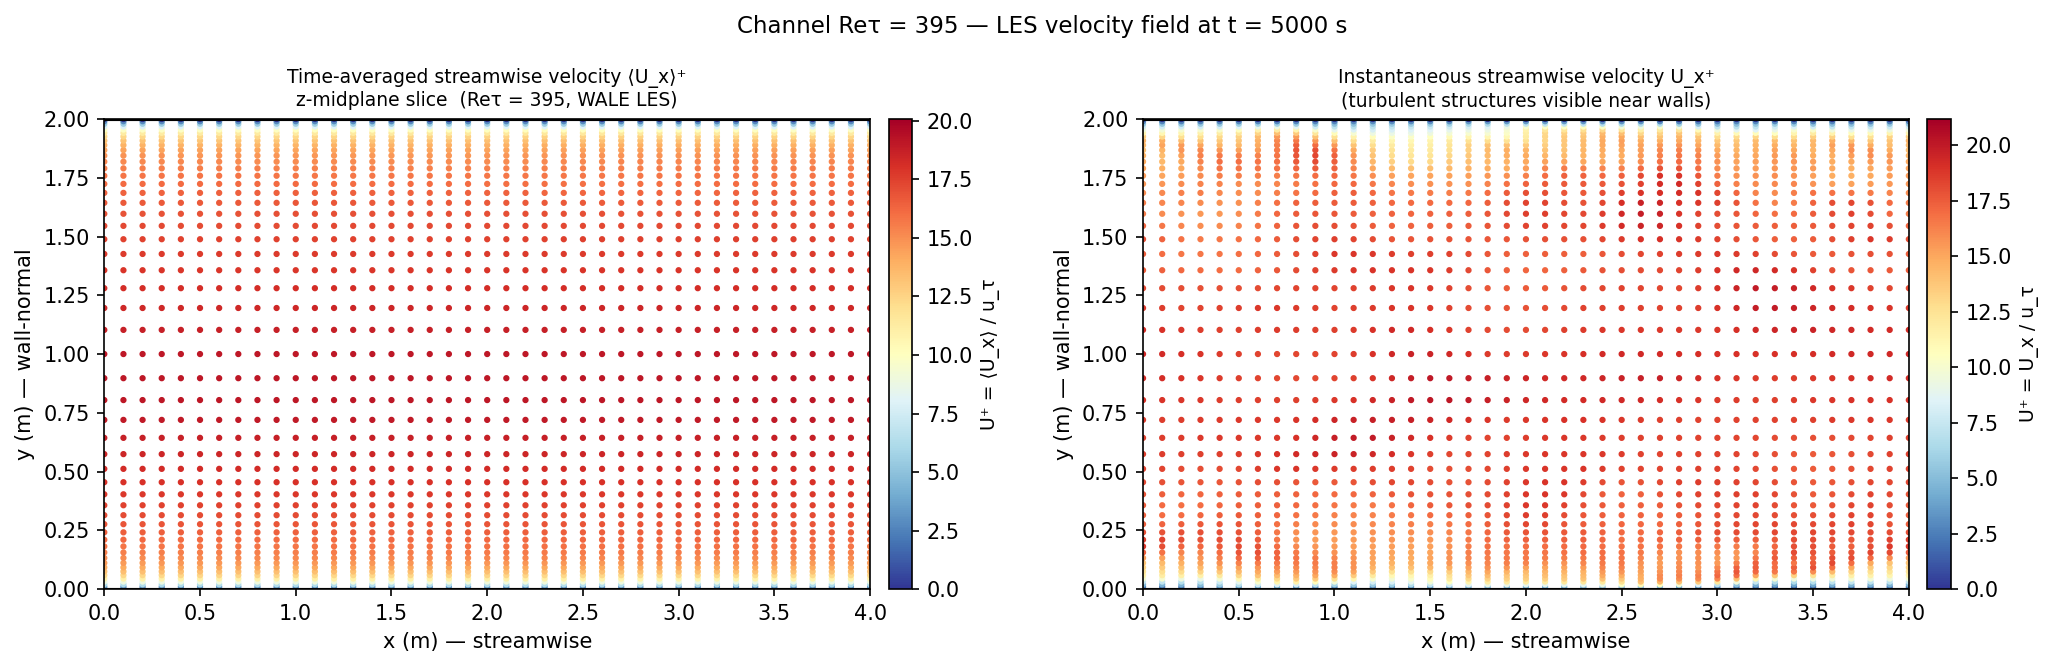
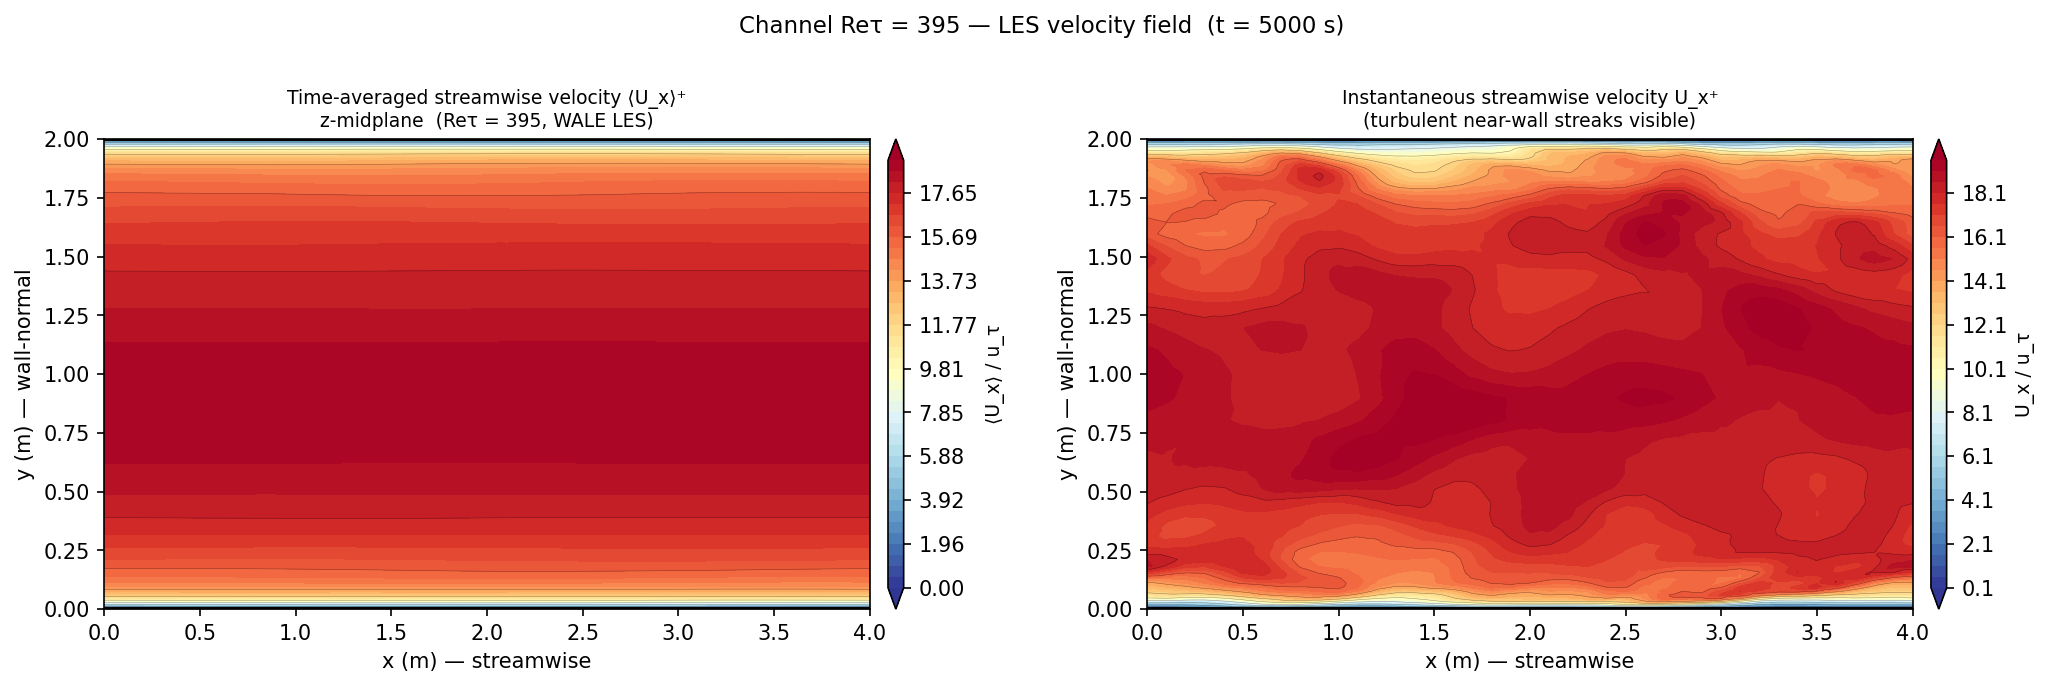
Interpolate velocity contours onto regular grid for smooth plots
Replace scatter points with scipy.griddata interpolation onto a 400×200
cosine-clustered grid (dense near walls), then render with contourf + light
contour lines — gives smooth filled contours that resolve the boundary layer.

diff --git a/postprocess.py b/postprocess.py
@@ -181,6 +181,8 @@ if VTK_FILE.exists():
         reader.Update()
         grid = reader.GetOutput()
 
+        from scipy.interpolate import griddata
+
         pts = vtk_np.vtk_to_numpy(grid.GetPoints().GetData())
         pd  = grid.GetPointData()
 
@@ -188,58 +190,76 @@ if VTK_FILE.exists():
             a = pd.GetArray(name)
             return vtk_np.vtk_to_numpy(a) if a else None
 
-        UMean = get_arr("UMean")          # (N,3) time-averaged velocity
-        U_inst = get_arr("U")             # (N,3) instantaneous velocity
+        UMean  = get_arr("UMean")   # (N,3) time-averaged velocity
+        U_inst = get_arr("U")       # (N,3) instantaneous velocity
 
         # Extract z-midplane slice (z closest to domain centre z=1.0)
         z_unique = np.unique(pts[:, 2])
         z_mid    = z_unique[np.argmin(np.abs(z_unique - 1.0))]
         mask_z   = np.abs(pts[:, 2] - z_mid) < 1e-4
 
-        x_sl  = pts[mask_z, 0]
-        y_sl  = pts[mask_z, 1]
-        Um_sl = UMean[mask_z, 0]   # streamwise component of time-averaged U
+        x_sl = pts[mask_z, 0]
+        y_sl = pts[mask_z, 1]
 
-        # Wall units for y-axis label
-        yp_sl = y_sl * u_tau / nu
-        Up_sl = Um_sl / u_tau
+        # Regular interpolation grid — dense enough for smooth contours
+        # Use finer y-resolution near walls to capture the boundary layer
+        nx_g, ny_g = 400, 200
+        xi = np.linspace(0, 4, nx_g)
+        # Cluster grid points toward both walls with a sine mapping
+        t_g = np.linspace(0, np.pi, ny_g)
+        yi  = 1.0 - np.cos(t_g)          # maps 0→π onto 0→2, dense at 0 and 2
 
-        fig, axes = plt.subplots(1, 2, figsize=(14, 4.5))
+        XI, YI = np.meshgrid(xi, yi)
+        xy_sl  = np.column_stack([x_sl, y_sl])
 
-        # ── Panel 1: mean streamwise velocity UMean_x ─────────────────────────
-        ax = axes[0]
-        sc = ax.scatter(x_sl, y_sl, c=Up_sl, cmap="RdYlBu_r", s=4,
-                        vmin=0, vmax=Up_sl.max() * 1.05, rasterized=True)
-        cb = fig.colorbar(sc, ax=ax, pad=0.02)
-        cb.set_label("U⁺ = ⟨U_x⟩ / u_τ", fontsize=9)
-        ax.axhline(0, color="k", lw=1.5)
-        ax.axhline(2, color="k", lw=1.5)
-        ax.set_xlabel("x (m) — streamwise", fontsize=10)
-        ax.set_ylabel("y (m) — wall-normal", fontsize=10)
-        ax.set_title("Time-averaged streamwise velocity ⟨U_x⟩⁺\n"
-                     f"z-midplane slice  (Reτ = {Re_tau:.0f}, WALE LES)", fontsize=9)
-        ax.set_xlim(0, 4); ax.set_ylim(0, 2)
+        def interp(values):
+            return griddata(xy_sl, values, (XI, YI), method="linear")
 
-        # ── Panel 2: instantaneous streamwise velocity ─────────────────────────
+        Um_grid = interp(UMean[mask_z, 0]) / u_tau   # ⟨U_x⟩⁺
+
+        def _contour_panel(ax, fig, Z, title, cbar_label, cmap="RdYlBu_r",
+                           vmin=None, vmax=None, nlevels=40):
+            vmin = vmin if vmin is not None else np.nanpercentile(Z, 1)
+            vmax = vmax if vmax is not None else np.nanpercentile(Z, 99)
+            levels = np.linspace(vmin, vmax, nlevels)
+            cf = ax.contourf(XI, YI, Z, levels=levels, cmap=cmap,
+                             extend="both")
+            ax.contour(XI, YI, Z, levels=levels[::4], colors="k",
+                       linewidths=0.25, alpha=0.4)
+            cb = fig.colorbar(cf, ax=ax, pad=0.02, aspect=30)
+            cb.set_label(cbar_label, fontsize=9)
+            # Wall lines
+            ax.axhline(0, color="k", lw=2)
+            ax.axhline(2, color="k", lw=2)
+            ax.fill_between([0, 4], -0.02, 0,   color="k", alpha=0.15)
+            ax.fill_between([0, 4],  2,    2.02, color="k", alpha=0.15)
+            ax.set_xlim(0, 4); ax.set_ylim(0, 2)
+            ax.set_xlabel("x (m) — streamwise", fontsize=10)
+            ax.set_ylabel("y (m) — wall-normal", fontsize=10)
+            ax.set_title(title, fontsize=9)
+
+        n_panels = 2 if U_inst is not None else 1
+        fig, axes = plt.subplots(1, n_panels, figsize=(7 * n_panels, 4.5))
+        if n_panels == 1:
+            axes = [axes]
+
+        _contour_panel(axes[0], fig, Um_grid,
+                       title="Time-averaged streamwise velocity ⟨U_x⟩⁺\n"
+                             f"z-midplane  (Reτ = {Re_tau:.0f}, WALE LES)",
+                       cbar_label="⟨U_x⟩ / u_τ",
+                       vmin=0, vmax=np.nanmax(Um_grid))
+
         if U_inst is not None:
-            Ui_sl  = U_inst[mask_z, 0] / u_tau
-            ax2 = axes[1]
-            sc2 = ax2.scatter(x_sl, y_sl, c=Ui_sl, cmap="RdYlBu_r", s=4,
-                              vmin=0, vmax=Ui_sl.max() * 1.05, rasterized=True)
-            cb2 = fig.colorbar(sc2, ax=ax2, pad=0.02)
-            cb2.set_label("U⁺ = U_x / u_τ", fontsize=9)
-            ax2.axhline(0, color="k", lw=1.5)
-            ax2.axhline(2, color="k", lw=1.5)
-            ax2.set_xlabel("x (m) — streamwise", fontsize=10)
-            ax2.set_ylabel("y (m) — wall-normal", fontsize=10)
-            ax2.set_title("Instantaneous streamwise velocity U_x⁺\n"
-                          "(turbulent structures visible near walls)", fontsize=9)
-            ax2.set_xlim(0, 4); ax2.set_ylim(0, 2)
-        else:
-            axes[1].set_visible(False)
+            Ui_grid = interp(U_inst[mask_z, 0]) / u_tau
+            _contour_panel(axes[1], fig, Ui_grid,
+                           title="Instantaneous streamwise velocity U_x⁺\n"
+                                 "(turbulent near-wall streaks visible)",
+                           cbar_label="U_x / u_τ",
+                           vmin=np.nanpercentile(Ui_grid, 2),
+                           vmax=np.nanpercentile(Ui_grid, 98))
 
-        fig.suptitle(f"Channel Reτ = {Re_tau:.0f} — LES velocity field at t = 5000 s",
-                     fontsize=11)
+        fig.suptitle(f"Channel Reτ = {Re_tau:.0f} — LES velocity field  (t = 5000 s)",
+                     fontsize=11, y=1.01)
         fig.tight_layout()
         fig.savefig(IMAGES / "contours.png", dpi=150, bbox_inches="tight")
         plt.close(fig)
